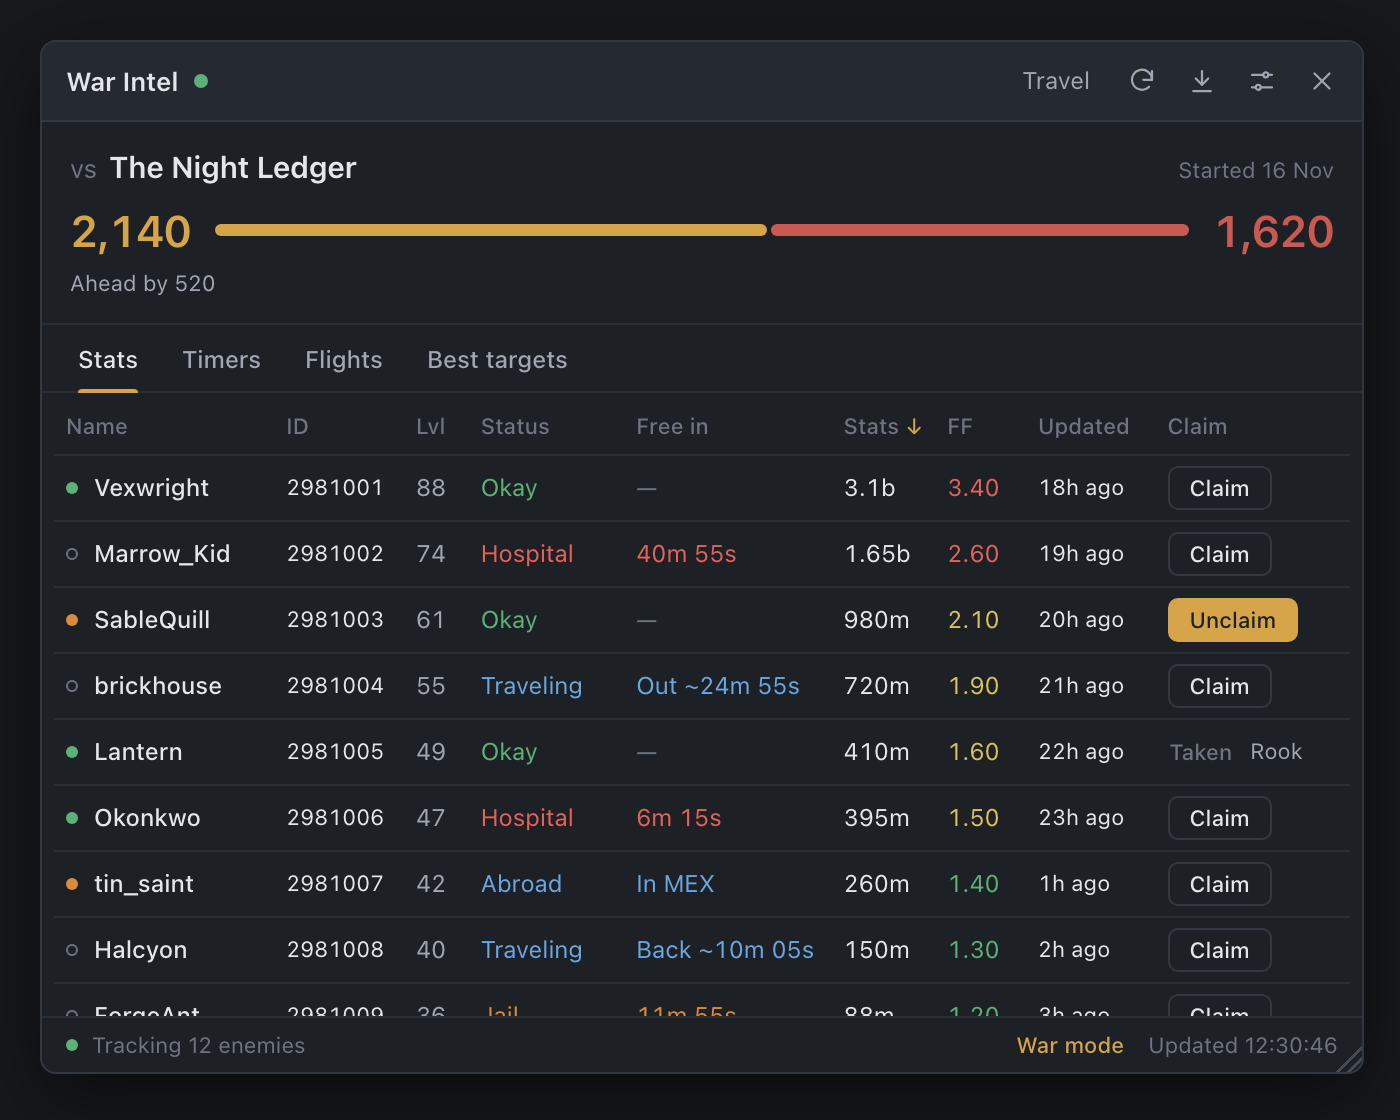
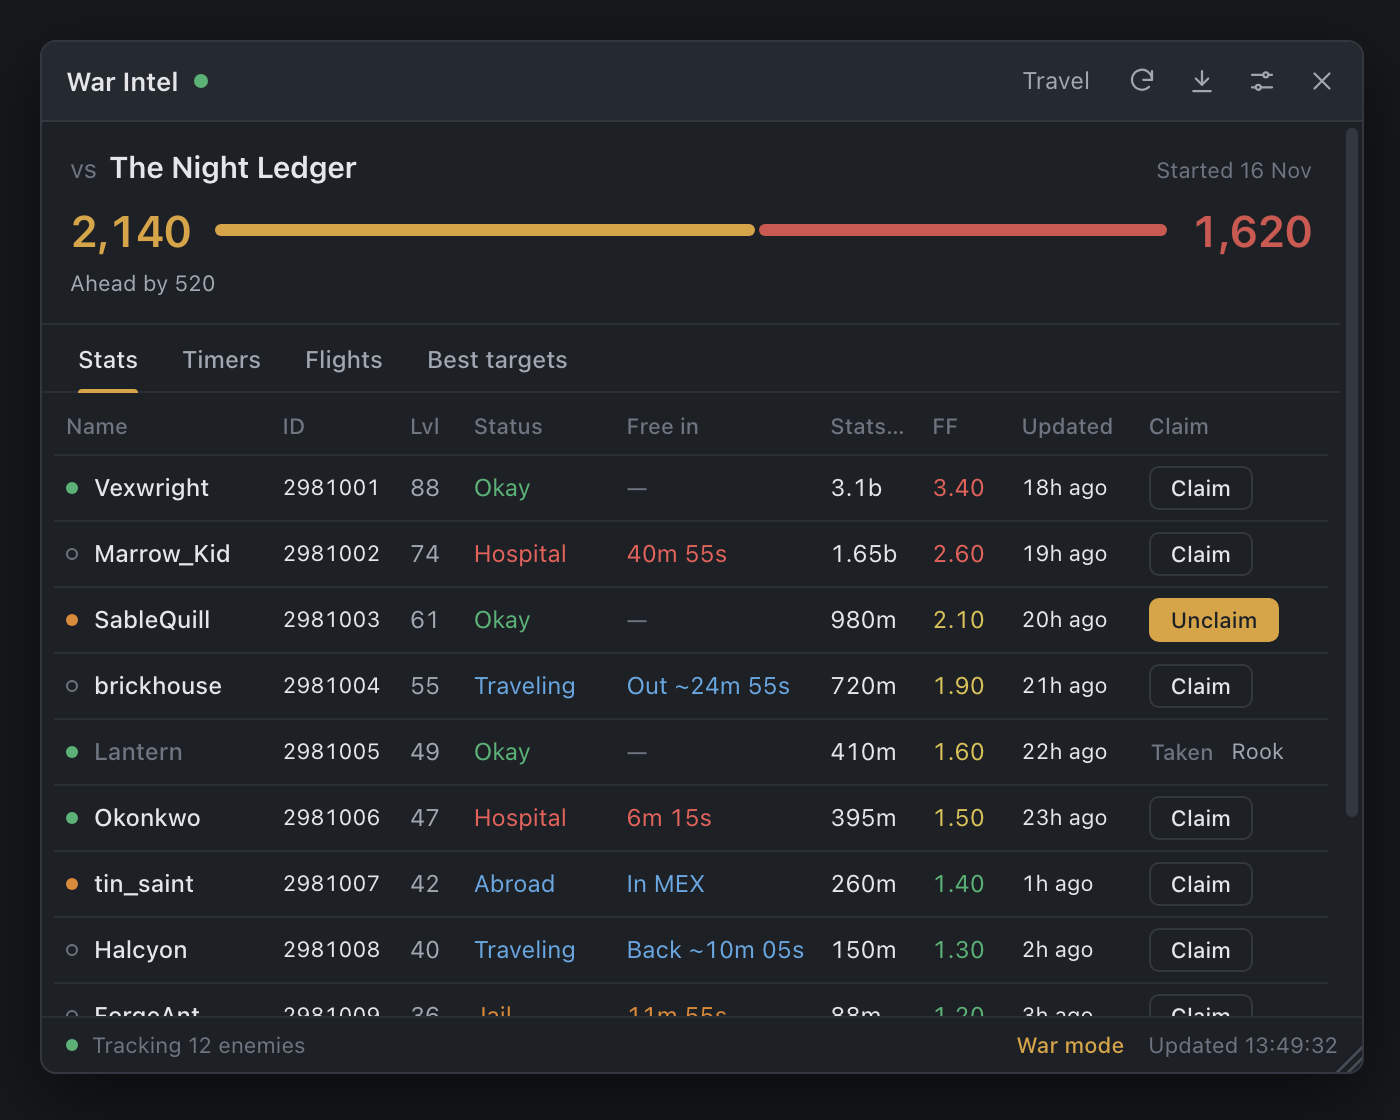
Updated extra parts of the guide

diff --git a/index.html b/index.html
@@ -122,7 +122,7 @@
         <a class="btn btn-primary" href="https://greasyfork.org/en/scripts/574906" target="_blank" rel="noopener">Install for desktop</a>
         <a class="btn btn-outline" href="https://greasyfork.org/en/scripts/574909" target="_blank" rel="noopener">Install for TornPDA</a>
     </div>
-    <p class="versions">Current versions: desktop 6.16.0, TornPDA 3.9.0</p>
+    <p class="versions">Current versions: desktop 6.18.0, TornPDA 3.11.0</p>
 </header>
 
 <figure class="hero-shot">
@@ -291,13 +291,26 @@
 <section id="claims">
 <h2>Claiming targets</h2>
 <div class="prose">
-    <p>Claims stop two people from your faction hitting the same enemy. Everyone running War Intel sees them within a couple of seconds.</p>
+    <p>Claims stop two people from your faction hitting the same enemy. Everyone running War Intel sees a new claim within about 5 seconds.</p>
     <ul class="plain">
         <li><strong>Claim</strong> marks an enemy as yours. The button turns brass and changes to <strong>Unclaim</strong>.</li>
-        <li>An enemy someone else has claimed shows <strong>Taken</strong> with that person's name, and can't be claimed until they let go.</li>
-        <li><strong>Unclaim</strong> releases your claim.</li>
-        <li>When an enemy you've claimed goes into hospital, which usually means your hit landed, the claim is released for you. If you claim someone who's already in hospital, the claim stays until you release it, so you can call dibs on them for when they come out.</li>
+        <li>An enemy someone else has claimed shows <strong>Taken</strong> with that person's name. Their name turns grey and is locked: you can't claim them or open the attack from War Intel. Selecting the name tells you who has them.</li>
+        <li><strong>Unclaim</strong> releases your claim so someone else can take them.</li>
+        <li>When an enemy you've claimed goes into hospital, which usually means your hit landed, the claim is released for you.</li>
+        <li>Every claim lapses after 20 minutes, in case someone forgets about one. That includes claims on enemies who were already in hospital, so claim them again if you still want them when they come out.</li>
     </ul>
+    <p class="note">The lock only works inside War Intel. Torn's own pages, like the enemy's profile or the faction page, still let anyone attack. Please respect claims there too.</p>
+    <p>Claiming needs desktop 6.17.0 or TornPDA 3.10.0 or newer. Older versions can't claim at all, so update if the Claim button isn't working.</p>
+</div>
+<div class="pair">
+    <figure>
+        <img src="images/d-claims.png" width="648" height="195" loading="lazy" alt="Desktop Stats tab: SableQuill shows a brass Unclaim button because you claimed them. Lantern's name is grey and their claim column reads Taken, Rook.">
+        <figcaption>Desktop: your claim in brass, and Lantern locked because Rook has them.</figcaption>
+    </figure>
+    <figure>
+        <img src="images/m-claims.png" width="375" height="438" loading="lazy" alt="TornPDA cards: SableQuill shows You and a brass Unclaim button. Lantern's name is grey with Rook and Taken under it.">
+        <figcaption>TornPDA: the same claims on cards.</figcaption>
+    </figure>
 </div>
 </section>
 
@@ -427,6 +440,14 @@
     <details>
         <summary>A traveller shows "In flight" with no time</summary>
         <div><p>They were already in the air when the server started watching, so their take-off time is unknown. Their next flight will be timed.</p></div>
+    </details>
+    <details>
+        <summary>An enemy's name is grey and won't open the attack</summary>
+        <div><p>Someone else in your faction has claimed them. Their name shows next to Taken. The name unlocks when they release the claim, the enemy goes into hospital, or the claim reaches 20 minutes.</p></div>
+    </details>
+    <details>
+        <summary>The Claim button doesn't work</summary>
+        <div><p>Make sure you're on desktop 6.17.0 or TornPDA 3.10.0 or newer. Older versions can't claim any more.</p></div>
     </details>
     <details>
         <summary>The panel has disappeared</summary>
